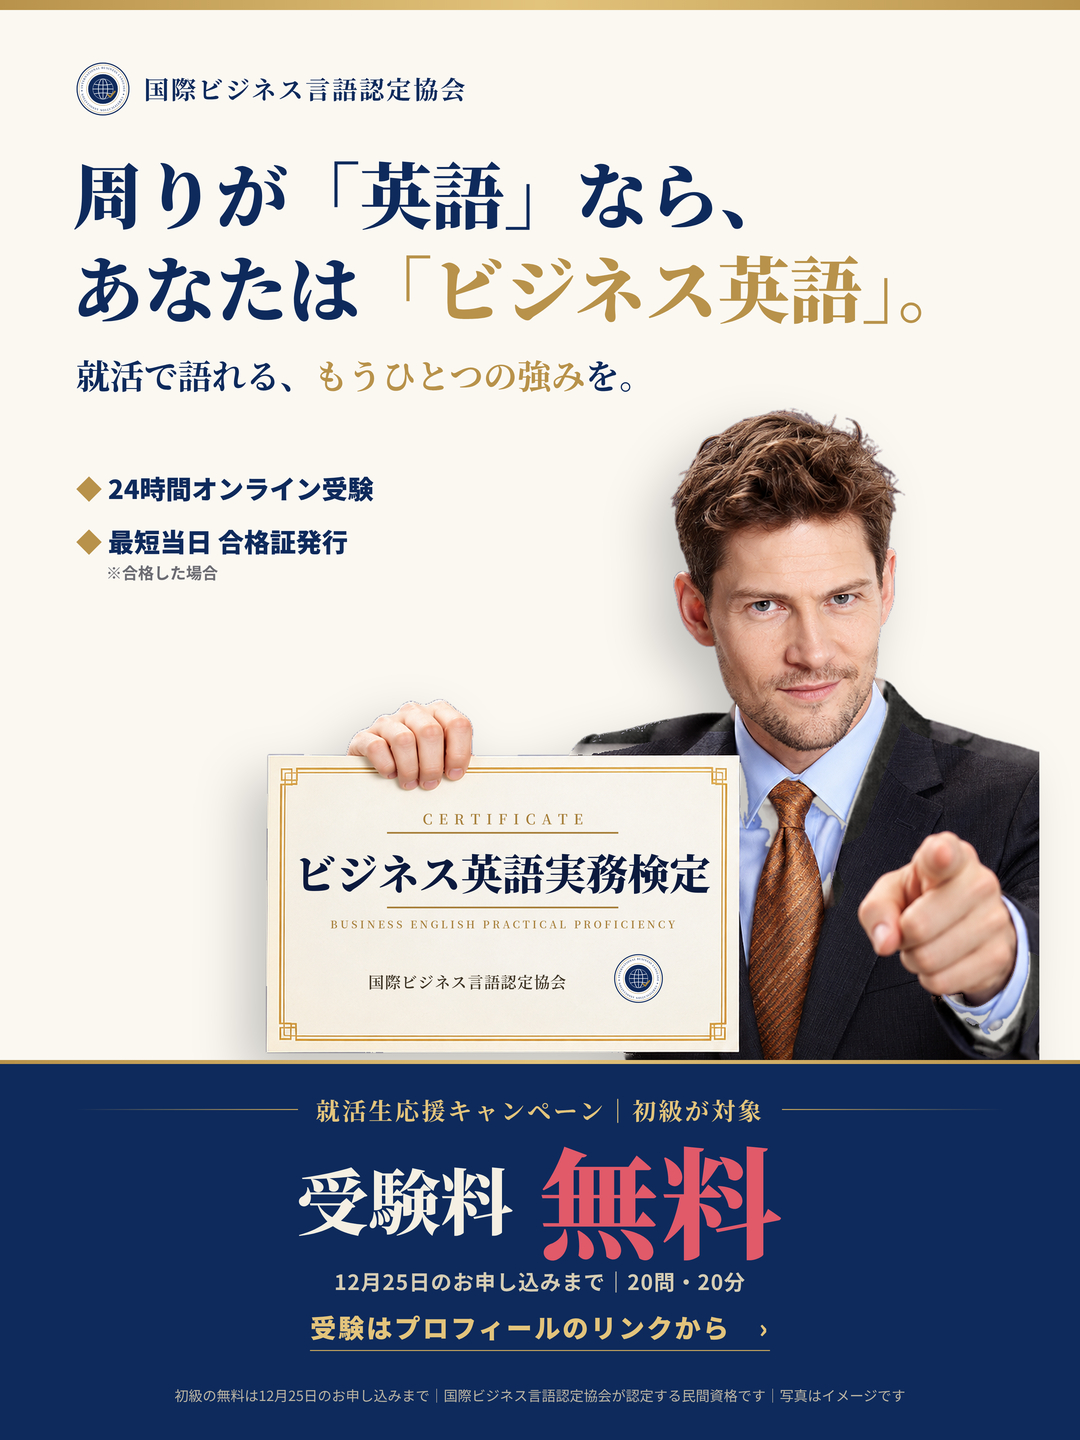
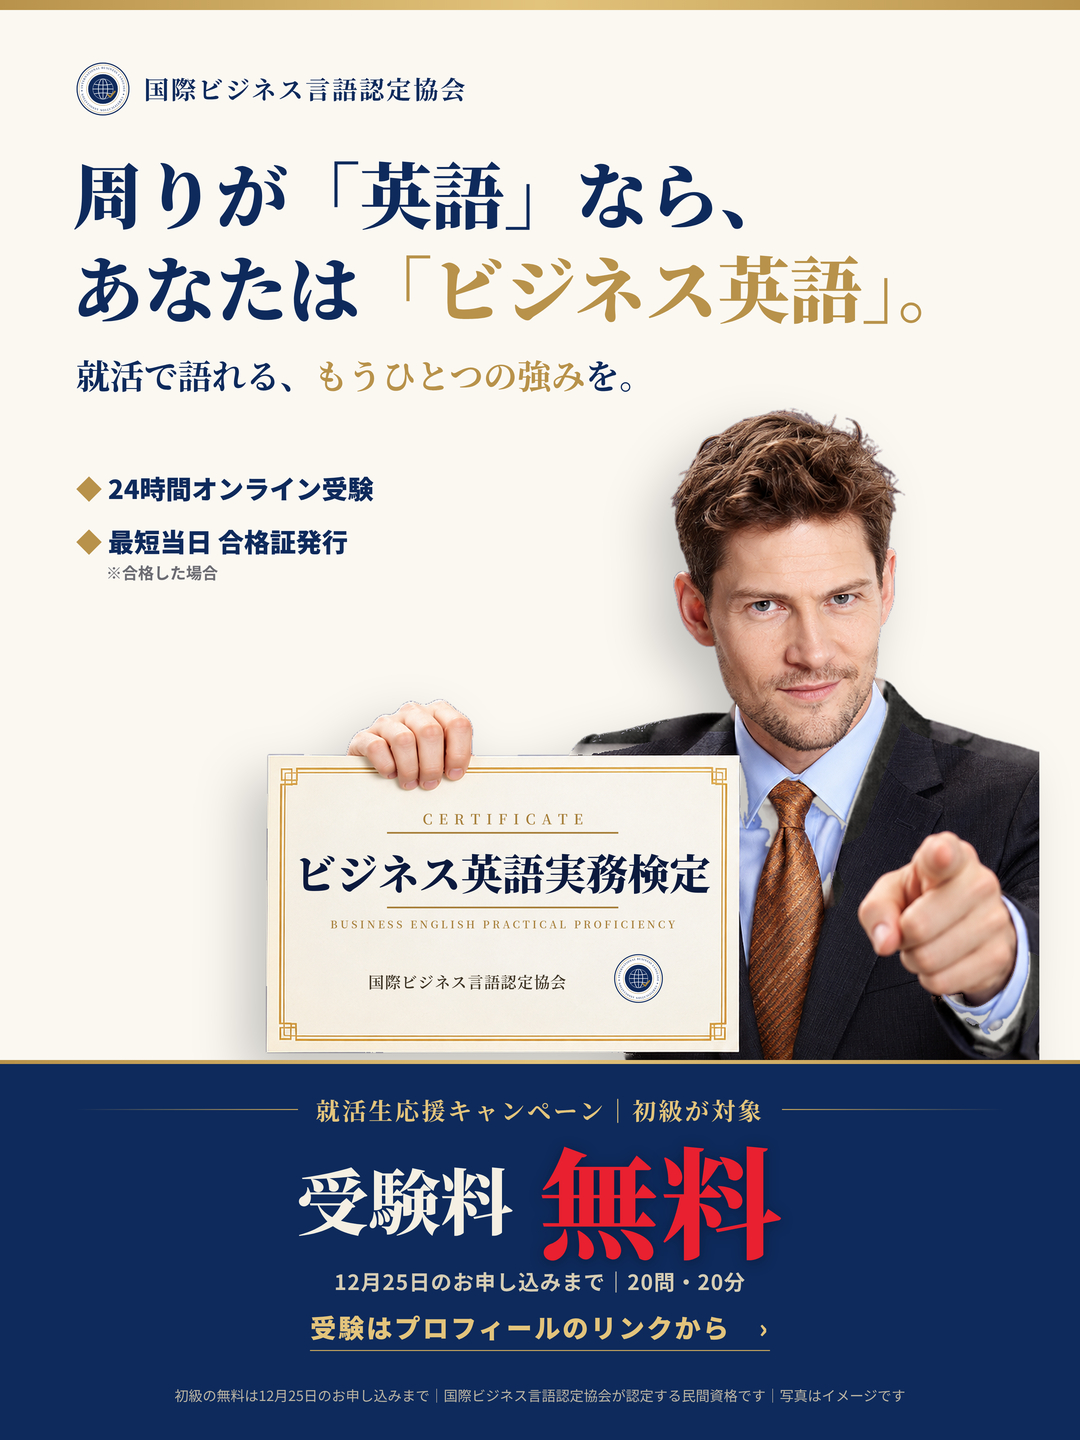
白ベース版：無料をはっきりした赤に
Claude-Session: https://claude.ai/code/session_014p5jL2LKN9C3tYKst8GaL5

Changed region(s): [[0.4889, 0.7812, 0.7333, 0.875]]

diff --git a/content/posters/multi/man_ig_navy.html b/content/posters/multi/man_ig_navy.html
@@ -62,7 +62,7 @@ body:before{content:"";position:absolute;left:0;right:0;top:0;height:10px;backgr
 .vD{top:1092px!important}
 .vD .t span{color:#e3c47c!important}
 .vD .t:before{background:linear-gradient(90deg,rgba(201,168,92,0),#c9a85c)!important}.vD .t:after{background:linear-gradient(90deg,#c9a85c,rgba(201,168,92,0))!important}
-.vD .a{color:#f4efe2!important}.vD .a b{color:#e05a6a!important}
+.vD .a{color:#f4efe2!important}.vD .a b{color:#e8202f!important;text-shadow:0 2px 14px rgba(0,0,0,.35)}
 .vD .d{color:#d6cdb4!important}
 .vD .c{color:#e3c47c!important;border-bottom-color:#c9a85c!important}
 .note{color:#b9b3a2!important;z-index:5;top:1386px!important}
